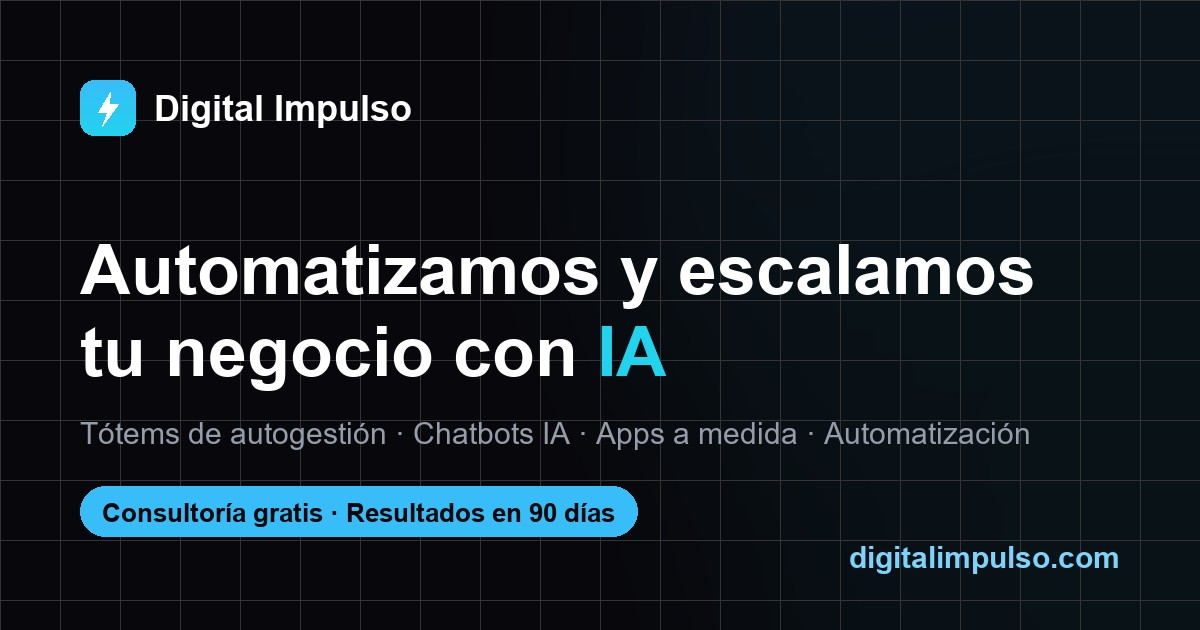
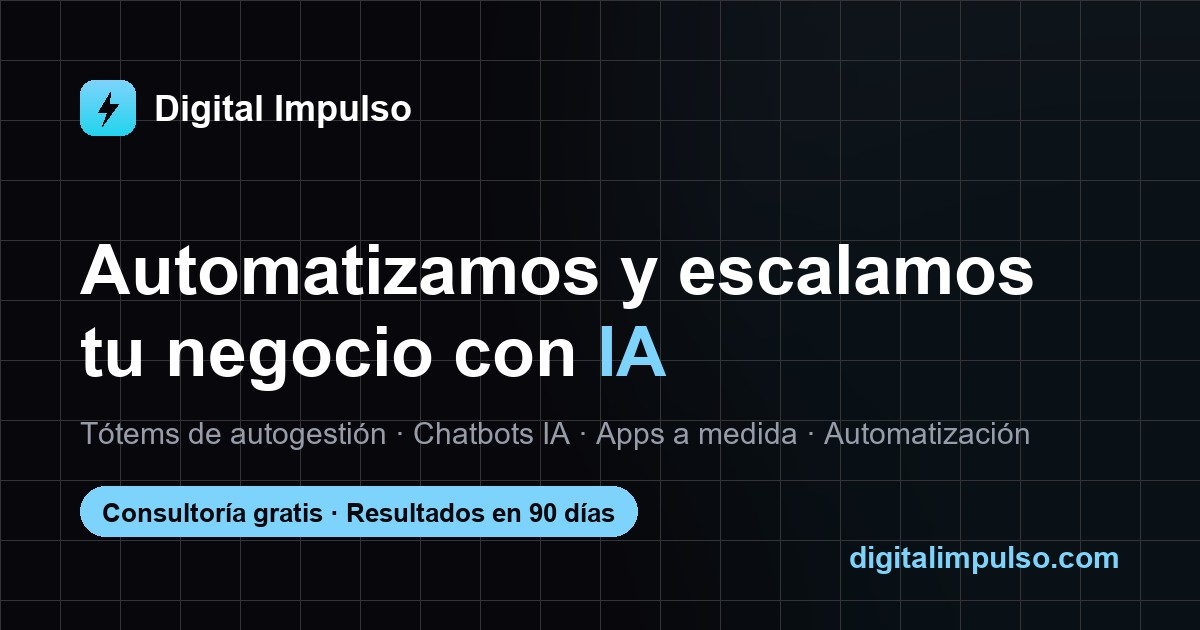
Ajustar celeste principal al tono mas claro (#7DD3FC)
- Color primario #38BDF8 -> #7DD3FC (mejor contraste sobre fondo negro)
- Reemplazo de hex y rgba en styles.css; og-image regenerada

Changed region(s): [[0.0617, 0.754, 0.555, 0.8746], [0.4933, 0.5127, 0.555, 0.6032], [0.0617, 0.1206, 0.1233, 0.2111]]

diff --git a/styles.css b/styles.css
@@ -2,7 +2,7 @@
 html { scroll-behavior: smooth; }
 
 :root {
-  --c: #38BDF8;
+  --c: #7DD3FC;
   --c2: #22D3EE;
   --bg: #000000;
   --bg2: #0A0A0F;
@@ -27,11 +27,11 @@ body {
   z-index: 0;
   top: 0; left: 0;
   width: 100%; height: 100%;
-  background: radial-gradient(600px circle at var(--mx, 50%) var(--my, 50%), rgba(56,189,248,0.07), transparent 40%);
+  background: radial-gradient(600px circle at var(--mx, 50%) var(--my, 50%), rgba(125,211,252,0.07), transparent 40%);
 }
 
 .text-gradient {
-  background: linear-gradient(135deg, #38BDF8, #22D3EE);
+  background: linear-gradient(135deg, #7DD3FC, #22D3EE);
   -webkit-background-clip: text;
   background-clip: text;
   -webkit-text-fill-color: transparent;
@@ -71,7 +71,7 @@ nav#navbar.scrolled { background: rgba(0,0,0,0.88); }
 .nav-logo-icon {
   width: 28px;
   height: 28px;
-  background: linear-gradient(135deg, #38BDF8, #22D3EE);
+  background: linear-gradient(135deg, #7DD3FC, #22D3EE);
   border-radius: 7px;
   display: flex;
   align-items: center;
@@ -106,7 +106,7 @@ nav#navbar.scrolled { background: rgba(0,0,0,0.88); }
 .nav-tel:hover { color: #fff; }
 
 .btn-primary {
-  background: linear-gradient(135deg, #38BDF8, #22D3EE);
+  background: linear-gradient(135deg, #7DD3FC, #22D3EE);
   color: #fff;
   text-decoration: none;
   font-size: 0.85rem;
@@ -120,7 +120,7 @@ nav#navbar.scrolled { background: rgba(0,0,0,0.88); }
 .btn-primary:hover {
   opacity: 0.85;
   transform: translateY(-1px);
-  box-shadow: 0 0 20px rgba(56,189,248,0.4);
+  box-shadow: 0 0 20px rgba(125,211,252,0.4);
 }
 
 /* ============ HERO ============ */
@@ -157,8 +157,8 @@ nav#navbar.scrolled { background: rgba(0,0,0,0.88); }
   gap: 8px;
   padding: 6px 16px;
   border-radius: 100px;
-  background: rgba(56,189,248,0.08);
-  border: 1px solid rgba(56,189,248,0.2);
+  background: rgba(125,211,252,0.08);
+  border: 1px solid rgba(125,211,252,0.2);
   color: #7DD3FC;
   font-size: 0.78rem;
   font-weight: 600;
@@ -168,8 +168,8 @@ nav#navbar.scrolled { background: rgba(0,0,0,0.88); }
 .hero-badge-dot {
   width: 7px; height: 7px;
   border-radius: 50%;
-  background: #38BDF8;
-  box-shadow: 0 0 10px #38BDF8;
+  background: #7DD3FC;
+  box-shadow: 0 0 10px #7DD3FC;
   animation: pulseDot 1.8s infinite;
 }
 
@@ -188,7 +188,7 @@ nav#navbar.scrolled { background: rgba(0,0,0,0.88); }
 
 #typewriter::after {
   content: '|';
-  -webkit-text-fill-color: #38BDF8;
+  -webkit-text-fill-color: #7DD3FC;
   animation: caret 0.8s steps(1) infinite;
 }
 
@@ -211,7 +211,7 @@ nav#navbar.scrolled { background: rgba(0,0,0,0.88); }
 }
 
 .hero-btn-main {
-  background: linear-gradient(135deg, #38BDF8, #22D3EE);
+  background: linear-gradient(135deg, #7DD3FC, #22D3EE);
   color: #fff;
   text-decoration: none;
   font-size: 0.95rem;
@@ -223,7 +223,7 @@ nav#navbar.scrolled { background: rgba(0,0,0,0.88); }
 
 .hero-btn-main:hover {
   transform: translateY(-2px);
-  box-shadow: 0 8px 30px rgba(56,189,248,0.4);
+  box-shadow: 0 8px 30px rgba(125,211,252,0.4);
 }
 
 .hero-btn-ghost {
@@ -337,7 +337,7 @@ nav#navbar.scrolled { background: rgba(0,0,0,0.88); }
   font-weight: 700;
   letter-spacing: 0.14em;
   text-transform: uppercase;
-  color: #38BDF8;
+  color: #7DD3FC;
   margin-bottom: 16px;
   display: flex;
   align-items: center;
@@ -348,7 +348,7 @@ nav#navbar.scrolled { background: rgba(0,0,0,0.88); }
   content: '';
   width: 20px;
   height: 1px;
-  background: #38BDF8;
+  background: #7DD3FC;
   display: block;
 }
 
@@ -406,8 +406,8 @@ nav#navbar.scrolled { background: rgba(0,0,0,0.88); }
   width: 40px;
   height: 40px;
   border-radius: 10px;
-  background: rgba(56,189,248,0.12);
-  border: 1px solid rgba(56,189,248,0.2);
+  background: rgba(125,211,252,0.12);
+  border: 1px solid rgba(125,211,252,0.2);
   display: flex;
   align-items: center;
   justify-content: center;
@@ -425,8 +425,8 @@ nav#navbar.scrolled { background: rgba(0,0,0,0.88); }
   border-radius: 100px;
   font-size: 0.72rem;
   font-weight: 600;
-  background: rgba(56,189,248,0.1);
-  border: 1px solid rgba(56,189,248,0.2);
+  background: rgba(125,211,252,0.1);
+  border: 1px solid rgba(125,211,252,0.2);
   color: #7DD3FC;
 }
 
@@ -437,8 +437,8 @@ nav#navbar.scrolled { background: rgba(0,0,0,0.88); }
 }
 
 .svc-featured {
-  background: rgba(56,189,248,0.04) !important;
-  border-color: rgba(56,189,248,0.2) !important;
+  background: rgba(125,211,252,0.04) !important;
+  border-color: rgba(125,211,252,0.2) !important;
 }
 
 /* ============ TÓTEMS ============ */
@@ -456,7 +456,7 @@ nav#navbar.scrolled { background: rgba(0,0,0,0.88); }
   transition: 0.3s;
 }
 
-.totem-card:hover { border-color: rgba(56,189,248,0.3); transform: translateY(-3px); }
+.totem-card:hover { border-color: rgba(125,211,252,0.3); transform: translateY(-3px); }
 
 .totem-media {
   height: 200px;
@@ -477,7 +477,7 @@ nav#navbar.scrolled { background: rgba(0,0,0,0.88); }
   font-weight: 600;
   color: #7DD3FC;
   background: rgba(0,0,0,0.5);
-  border: 1px solid rgba(56,189,248,0.25);
+  border: 1px solid rgba(125,211,252,0.25);
   padding: 4px 10px;
   border-radius: 100px;
 }
@@ -504,7 +504,7 @@ nav#navbar.scrolled { background: rgba(0,0,0,0.88); }
   color: inherit;
 }
 
-.case-card:hover { border-color: rgba(56,189,248,0.3); transform: translateY(-3px); }
+.case-card:hover { border-color: rgba(125,211,252,0.3); transform: translateY(-3px); }
 
 .case-media {
   height: 190px;
@@ -546,8 +546,8 @@ nav#navbar.scrolled { background: rgba(0,0,0,0.88); }
 .case-result {
   margin-top: 16px;
   padding: 10px 14px;
-  background: rgba(56,189,248,0.07);
-  border: 1px solid rgba(56,189,248,0.15);
+  background: rgba(125,211,252,0.07);
+  border: 1px solid rgba(125,211,252,0.15);
   border-radius: 8px;
   font-size: 0.8rem;
   color: #7DD3FC;
@@ -578,14 +578,14 @@ nav#navbar.scrolled { background: rgba(0,0,0,0.88); }
   top: -4px; left: 0;
   width: 7px; height: 7px;
   border-radius: 50%;
-  background: #38BDF8;
-  box-shadow: 0 0 12px #38BDF8;
+  background: #7DD3FC;
+  box-shadow: 0 0 12px #7DD3FC;
 }
 
 .process-num {
   font-size: 0.8rem;
   font-weight: 800;
-  color: #38BDF8;
+  color: #7DD3FC;
   letter-spacing: 0.1em;
   margin-bottom: 12px;
 }
@@ -604,8 +604,8 @@ nav#navbar.scrolled { background: rgba(0,0,0,0.88); }
 .about-metrics span { color: #6B7280; font-size: 0.8rem; }
 
 .about-card {
-  background: linear-gradient(135deg, rgba(56,189,248,0.08), rgba(34,211,238,0.04));
-  border: 1px solid rgba(56,189,248,0.2);
+  background: linear-gradient(135deg, rgba(125,211,252,0.08), rgba(34,211,238,0.04));
+  border: 1px solid rgba(125,211,252,0.2);
   border-radius: 18px;
   padding: 40px;
 }
@@ -622,7 +622,7 @@ nav#navbar.scrolled { background: rgba(0,0,0,0.88); }
   top: 50%; left: 50%;
   transform: translate(-50%, -50%);
   width: 800px; height: 500px;
-  background: radial-gradient(ellipse, rgba(56,189,248,0.12), transparent 65%);
+  background: radial-gradient(ellipse, rgba(125,211,252,0.12), transparent 65%);
   pointer-events: none;
   filter: blur(20px);
 }
@@ -654,7 +654,7 @@ nav#navbar.scrolled { background: rgba(0,0,0,0.88); }
   transition: 0.2s;
 }
 
-.cta-input:focus { border-color: rgba(56,189,248,0.5); background: rgba(56,189,248,0.05); }
+.cta-input:focus { border-color: rgba(125,211,252,0.5); background: rgba(125,211,252,0.05); }
 .cta-input::placeholder { color: #6B7280; }
 .cta-note { color: #6B7280; font-size: 0.78rem; margin-top: 16px; position: relative; z-index: 1; }
 
